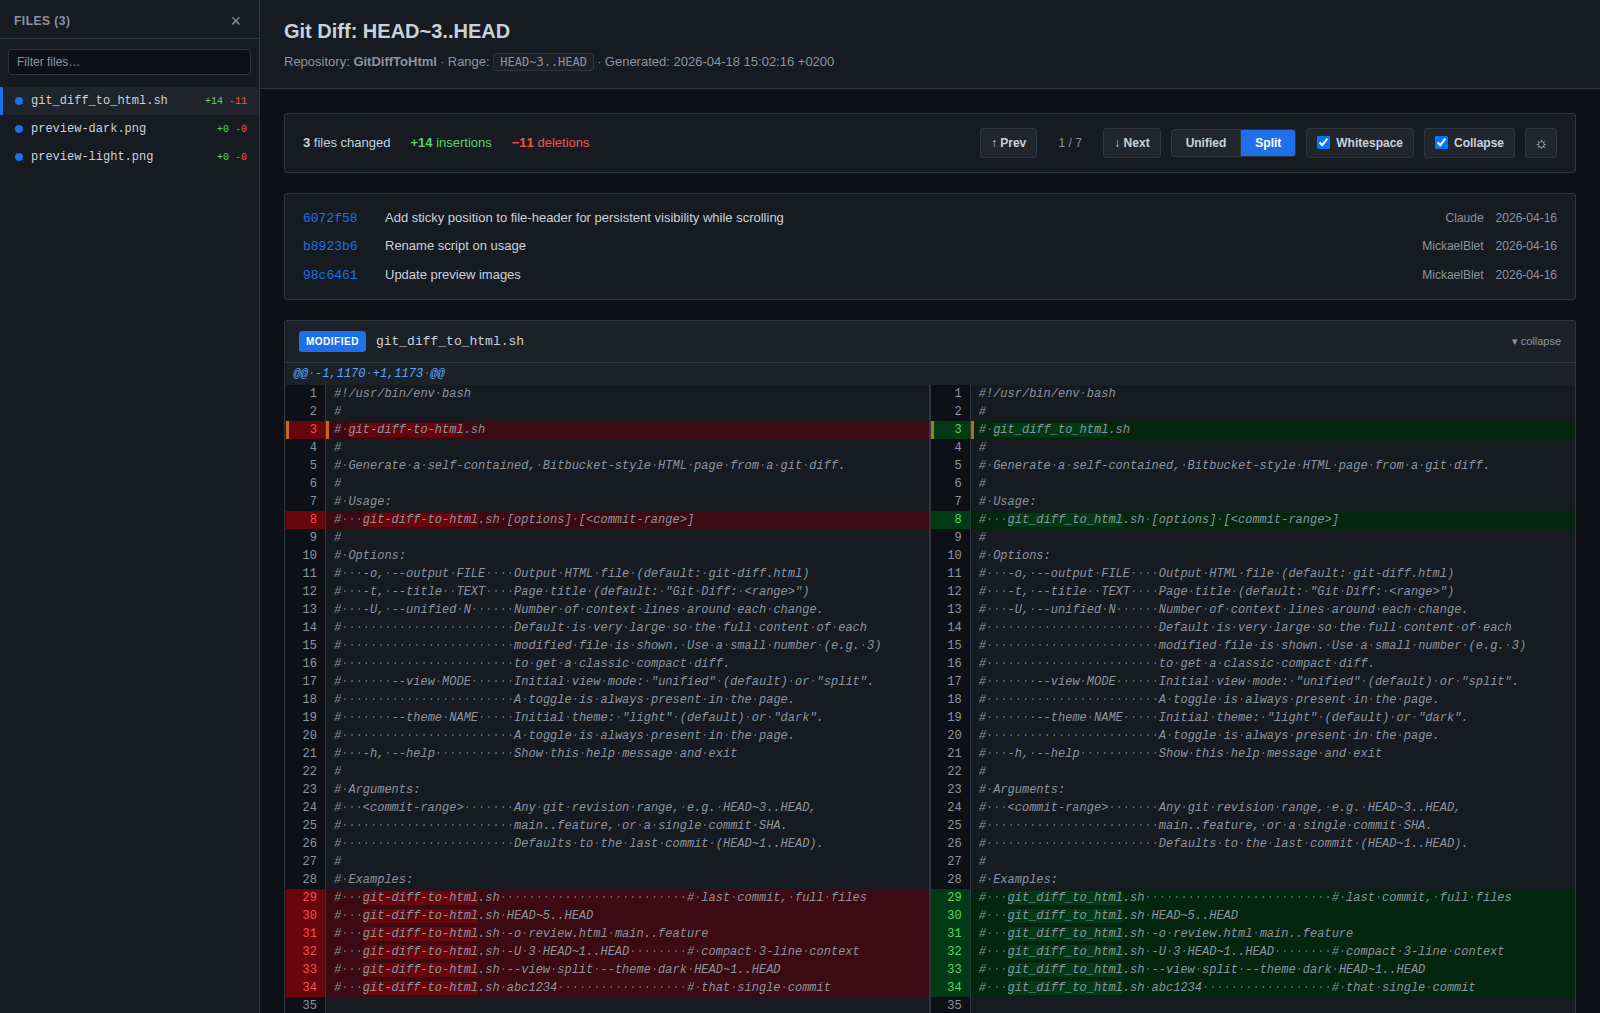
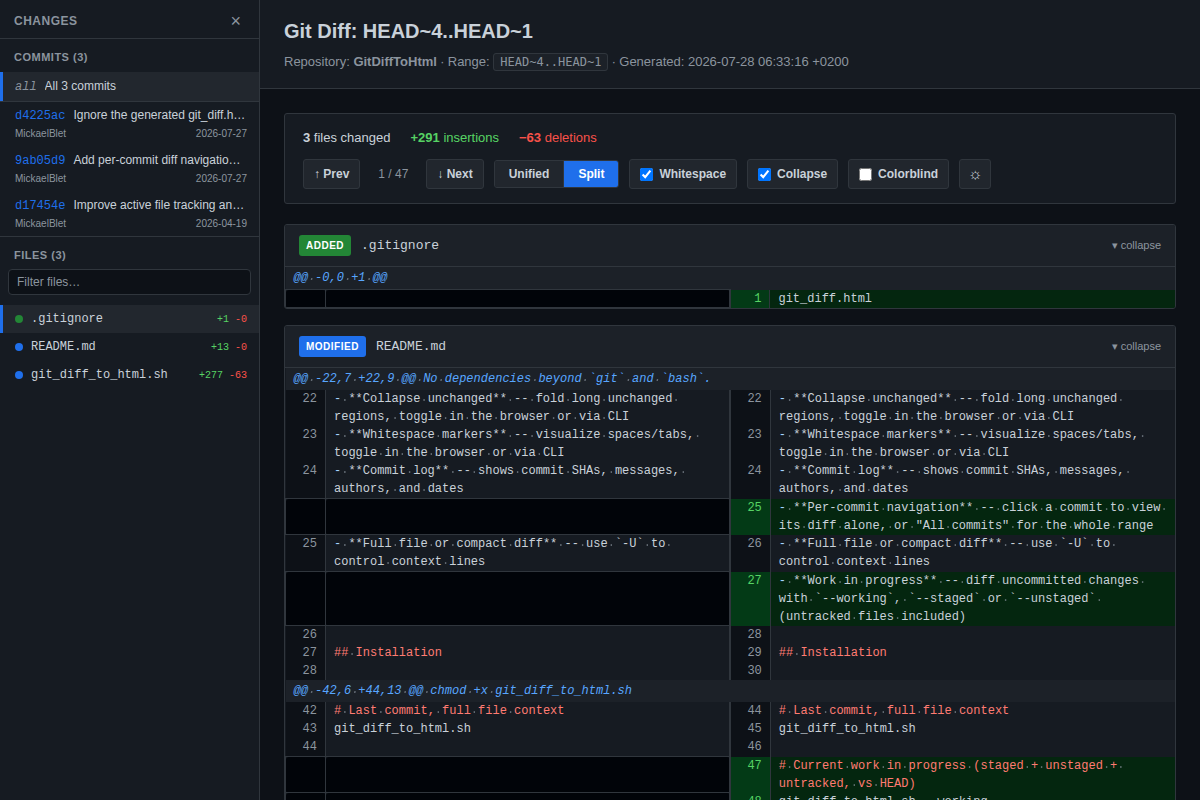
Refresh README and preview images
- Regenerate preview-light.png and preview-dark.png from HEAD~4..HEAD~1
  so they show the sidebar commit list, the Colorblind toggle and the
  word-level diff
- Document word-level diff, syntax highlighting and copy-friendly
  markers in the README feature list
- Mention awk alongside git and bash in the README dependency line
- Fix the documented default output name (git-diff.html -> git_diff.html)
  in README.md and in the usage header of git_diff_to_html.sh

diff --git a/README.md b/README.md
@@ -2,7 +2,7 @@
 
 A single Bash script that generates self-contained, Bitbucket-style HTML pages from any `git diff`.
 
-No dependencies beyond `git` and `bash`.
+No dependencies beyond `git`, `bash` and `awk`.
 
 ## Preview
 
@@ -18,6 +18,9 @@ No dependencies beyond `git` and `bash`.
 - **Colorblind-safe palette** -- blue/orange add & delete colors for both themes, toggle in the browser or `--colorblind on`
 - **Sidebar** -- left panel listing commits and files for fast navigation
 - **Sticky file header** -- stays visible while scrolling through long diffs
+- **Word-level diff** -- highlights what actually changed inside a modified line
+- **Syntax highlighting** -- per-language colors, detected from the file extension
+- **Copy-friendly** -- `+`/`-` markers and whitespace dots are never part of a copied selection
 - **Prev/Next navigation** -- floating buttons to jump between changes
 - **Collapsible files** -- collapse/expand individual file diffs
 - **Collapse unchanged** -- fold long unchanged regions, toggle in the browser or via CLI
@@ -76,7 +79,7 @@ git_diff_to_html.sh abc1234
 | `--staged`, `--cached` | Diff staged changes only (index vs `HEAD`) | |
 | `--unstaged` | Diff unstaged changes only (work tree vs index) | |
 | `--untracked STATE` | Include untracked files (`--working` / `--unstaged`): `on` or `off` | `on` |
-| `-o, --output FILE` | Output HTML file | `git-diff.html` |
+| `-o, --output FILE` | Output HTML file | `git_diff.html` |
 | `-t, --title TEXT` | Page title | `Git Diff: <range>` |
 | `-U, --unified N` | Context lines around each change | Full file |
 | `--view MODE` | Initial view: `unified` or `split` | `unified` |
